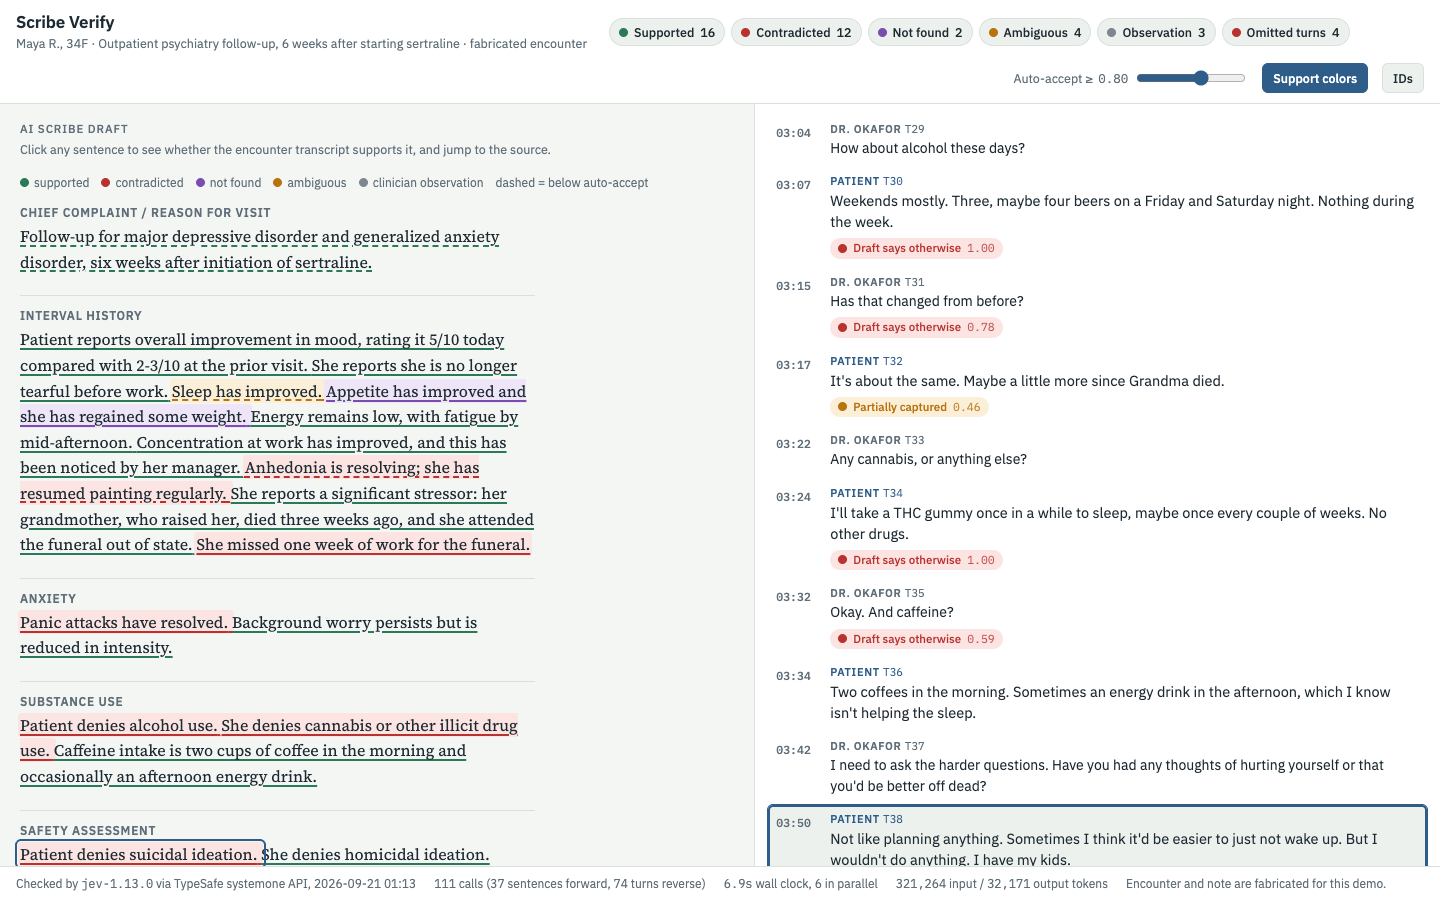
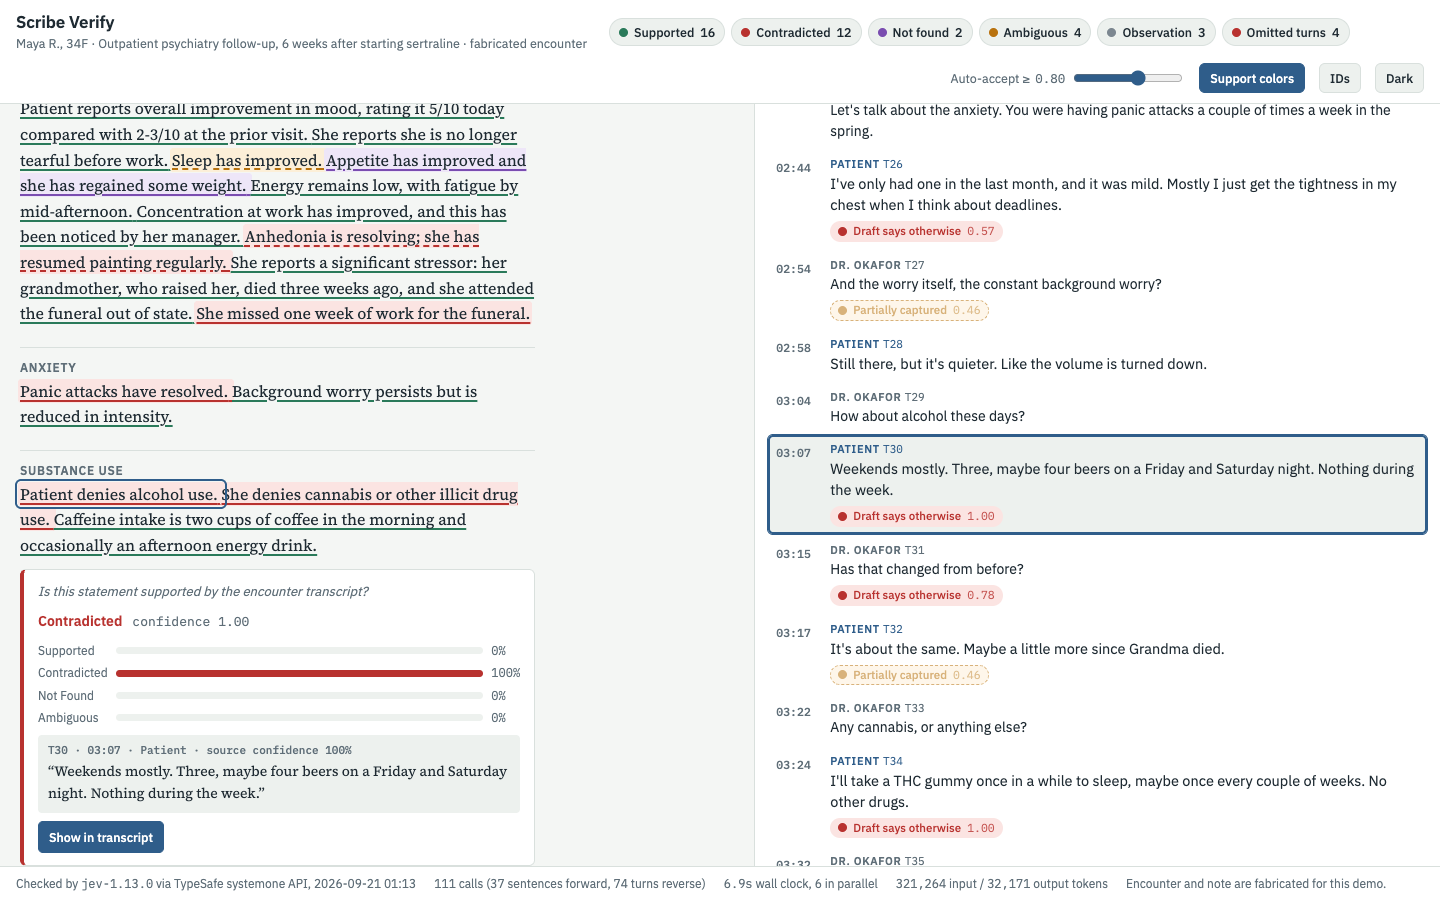
README: link the video walkthrough, refresh screenshots, describe current viewer controls

Changed region(s): [[0.5312, 0.0622, 1.0, 0.9644], [0.0, 0.0933, 0.4375, 0.6222], [0.0, 0.6533, 0.375, 0.9644]]

diff --git a/README.md b/README.md
@@ -11,7 +11,11 @@ that never made it into the note are flagged as omissions.
 
 **Live demo:** https://stephonomon.github.io/scribe-verify/  (self-contained page, results are embedded, no API calls from the browser)
 
-![The draft on the left, colour-coded by transcript support; the transcript on the right with omission flags](docs/draft-view.png)
+**Video walkthrough:** https://youtu.be/d_vqWMtRmOI
+
+[![Watch the walkthrough on YouTube. The draft on the left, colour-coded by transcript support; the transcript on the right with omission flags](docs/draft-view.png)](https://youtu.be/d_vqWMtRmOI)
+
+▶ [Watch Stephon walk through the demo on YouTube](https://youtu.be/d_vqWMtRmOI)
 
 > Everything here is fabricated. There is no real patient, clinician, or recording. The encounter, the note,
 > and the seeded errors were written for this demo. Nothing in this repository is medical advice or a validated
@@ -65,11 +69,11 @@ underline for human review, mirroring the cookbook's `AUTO_ACCEPT` threshold.
 ### The viewer
 
 - **Left:** the AI draft, one span per sentence. Colour encodes the verdict; the underline style encodes whether it cleared the threshold.
-- **Right:** the transcript with timestamps and speaker. Turns the draft missed or contradicted carry a flag.
-- Click a sentence to open its verification card (verdict, probabilities, the source turn quoted, other candidate turns) and scroll the transcript to the source.
+- **Right:** the transcript with timestamps and speaker. Turns the draft missed or contradicted carry a flag; flags below 0.5 confidence are faded.
+- Click a sentence to open its verification card (verdict, Jev's probability over the four options, the source turn quoted, other candidate turns) and scroll the transcript to the source. Click blank space in the draft to close it.
 - Click a transcript flag to see the capture verdict and which draft sentences cite that turn.
-- The header chips filter the draft by verdict. **Support colors** turns the colouring off for a before/after. **IDs** shows sentence IDs.
-- Accept / Edit / Remove / Add to draft are placeholders that show where this would plug into a real scribe's sign-off flow.
+- The header chips filter the draft by verdict. The **auto-accept** slider sets the confidence threshold. **Support colors** turns the colouring off for a before/after. **IDs** shows sentence IDs. **Dark / Light** switches theme and remembers your choice in the browser.
+- "Add to draft" and "Not needed in note" on the transcript cards are placeholders that show where this would plug into a real scribe's sign-off flow. Nothing is edited.
 
 ## Results
 
